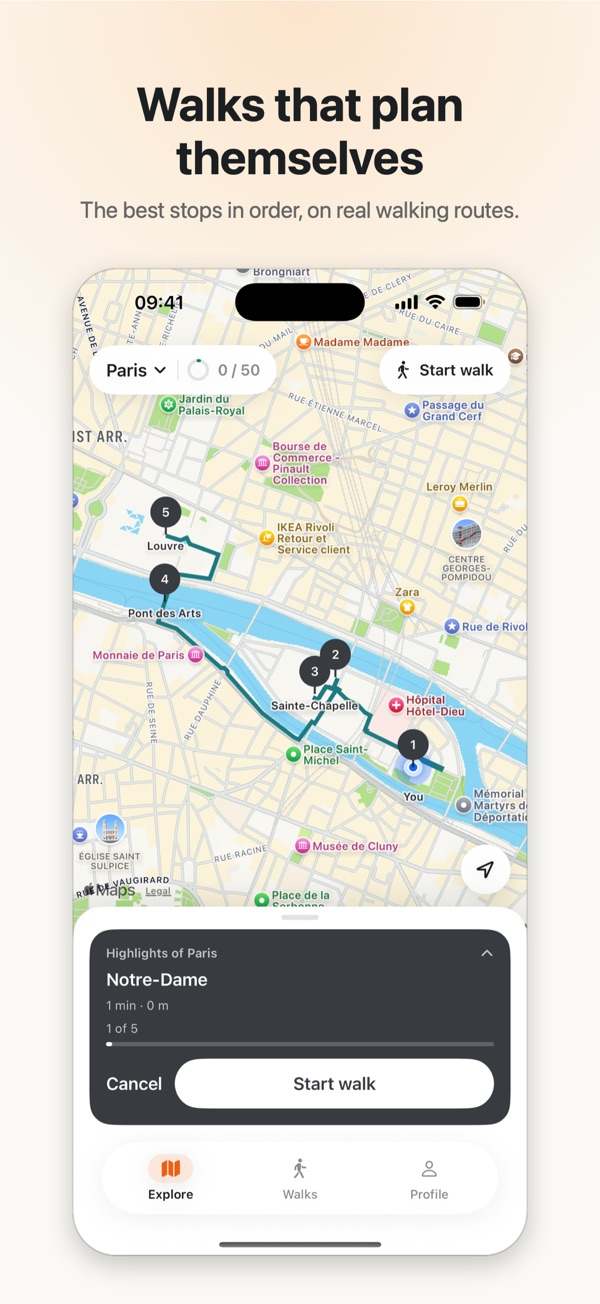
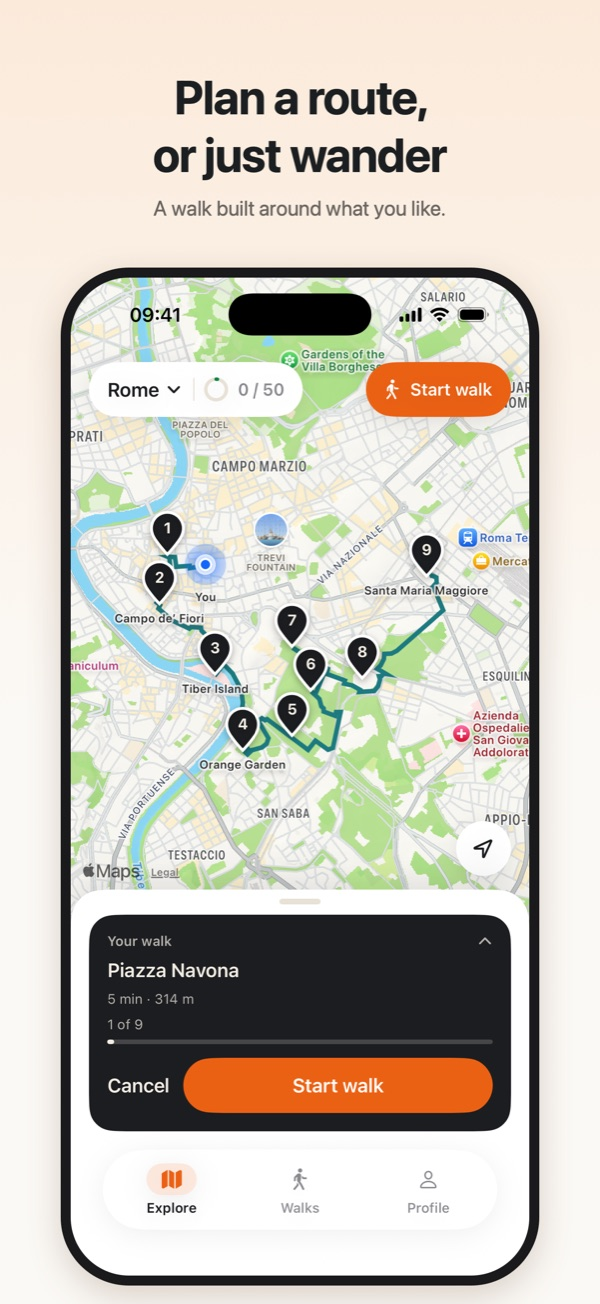
Show the 1.1 redesign, and match the policy to the app
New screenshots, a passport line on the home page, badges described as
passport stamps, and Delete account under Profile → Settings & privacy.

diff --git a/privacy.md b/privacy.md
@@ -5,7 +5,7 @@ permalink: /privacy/
 
 # Wizzy Privacy Policy
 
-**Effective date:** 27 October 2026
+**Effective date:** 7 November 2026
 
 Wizzy is an iPhone app that tells you about the landmarks you walk past. This policy explains what information Wizzy uses, why, where it is kept, and the choices you have.
 
@@ -13,7 +13,7 @@ Wizzy is an iPhone app that tells you about the landmarks you walk past. This po
 
 - Your location stays on your phone. Wizzy never uploads your coordinates; when you have an account, it only saves *which landmark* you visited.
 - You can use the map, stories and walks without an account.
-- If you create an account (with your email, Sign in with Apple or Sign in with Google), we store your email, the name you choose, your interests, the landmarks you visited, your badges and your groups. That data is stored in Stockholm, Sweden.
+- If you create an account (with your email, Sign in with Apple or Sign in with Google), we store your email, the name you choose, your interests, the landmarks you visited, your badges (the city stamps in your passport) and your groups. That data is stored in Stockholm, Sweden.
 - No ads, no tracking, no analytics, and we never sell your data.
 - You can delete your account and its data at any time from inside the app.
 
@@ -40,7 +40,7 @@ When you sign up and use Wizzy while signed in, we store the following on our se
 | If you use Sign in with Google: your email address, your name and profile picture link as provided by Google, and a Google account identifier. | To create your account and sign you in. |
 | Display name and interests | To personalise walks and to show your name to people in your groups. |
 | Landmarks you visited (which landmark, when, and whether you were pinged or marked it yourself) | To keep your progress and badges across devices. |
-| Badges you earned | To show your achievements. |
+| Badges you earned (shown as city stamps in your passport) | To show your progress in your passport. |
 | Groups you create or join (group name, city, invite code, members, and an optional iCloud Shared Album link) | To let you plan walks with friends. |
 
 The legal basis for this is that it is necessary to provide the service you asked for (GDPR Article 6(1)(b)).
@@ -83,7 +83,7 @@ We may disclose information if required by law.
 ## How long we keep it
 
 - **Account data** is kept until you delete your account.
-- **When you delete your account** in the app (Profile → Settings → Delete account), your account, profile, visits and badges are deleted from our database straight away, and you are removed from your groups. Groups you created pass to another member, or are deleted if you were the only member. If you signed in with Apple, we also ask Apple to disconnect Wizzy from your Apple ID. Copies may remain in our hosting provider's encrypted backups for a short period until those backups are overwritten.
+- **When you delete your account** in the app (Profile → Settings & privacy → Delete account), your account, profile, visits and badges are deleted from our database straight away, and you are removed from your groups. Groups you created pass to another member, or are deleted if you were the only member. If you signed in with Apple, we also ask Apple to disconnect Wizzy from your Apple ID. Copies may remain in our hosting provider's encrypted backups for a short period until those backups are overwritten.
 - **Technical logs** are kept for a limited period by our hosting provider and then deleted.
 - **Data on your phone** is removed when you delete the app.
 

diff --git a/index.md b/index.md
@@ -18,7 +18,7 @@ Wizzy is an iPhone app with short stories about the landmarks around you, and a 
   <img src="{{ '/assets/screens/story.jpg' | relative_url }}" alt="A short story about a landmark">
   <img src="{{ '/assets/screens/route.jpg' | relative_url }}" alt="A planned walking route">
   <img src="{{ '/assets/screens/walks.jpg' | relative_url }}" alt="Your walk journal">
-  <img src="{{ '/assets/screens/badges.jpg' | relative_url }}" alt="Badges for the cities you complete">
+  <img src="{{ '/assets/screens/passport.jpg' | relative_url }}" alt="Your passport, with a stamp for each city">
 </div>
 
 ## What it does
@@ -27,6 +27,7 @@ Wizzy is an iPhone app with short stories about the landmarks around you, and a 
 - **Stories, not encyclopedia entries.** Every place gets a short story you can read in the time it takes to cross the street.
 - **Plan a route or just wander.** Build a walk from the map, or start walking and let the city surprise you.
 - **Keep a journal.** Every walk is saved as a day with a map of where you went.
+- **Fill your passport.** Each city you explore gets a stamp that fills in as you see its landmarks.
 - **Travel together.** Make a group, invite friends with a link, see how much of the city each of you has seen, and share a trip album.
 - **Private by design.** Your location stays on your phone. No ads, no analytics.
 

diff --git a/support.md b/support.md
@@ -30,7 +30,7 @@ On the sign-in screen, tap **Continue with email**, then **Forgot password?**, a
 
 ### How do I delete my account?
 
-In the app, go to **Profile → Settings → Delete account**. This permanently deletes your account, visits and badges. Groups you created pass to another member. See the [Privacy Policy](../privacy/) for details.
+In the app, go to **Profile → Settings & privacy → Delete account**. This permanently deletes your account, visits and badges (your passport stamps). Groups you created pass to another member. See the [Privacy Policy](../privacy/) for details.
 
 ### Does Wizzy track me?
 
